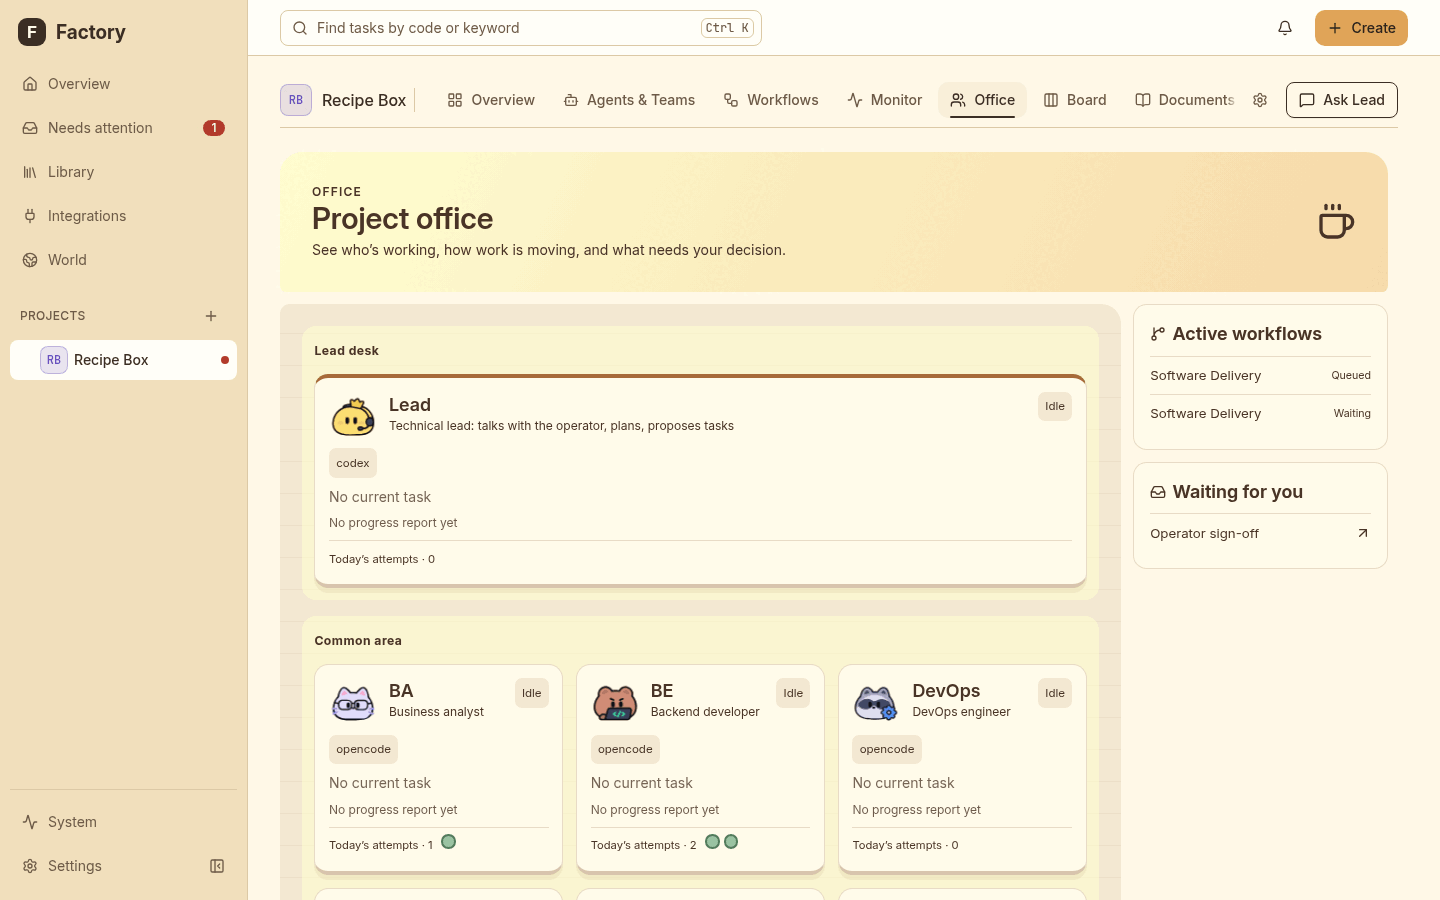
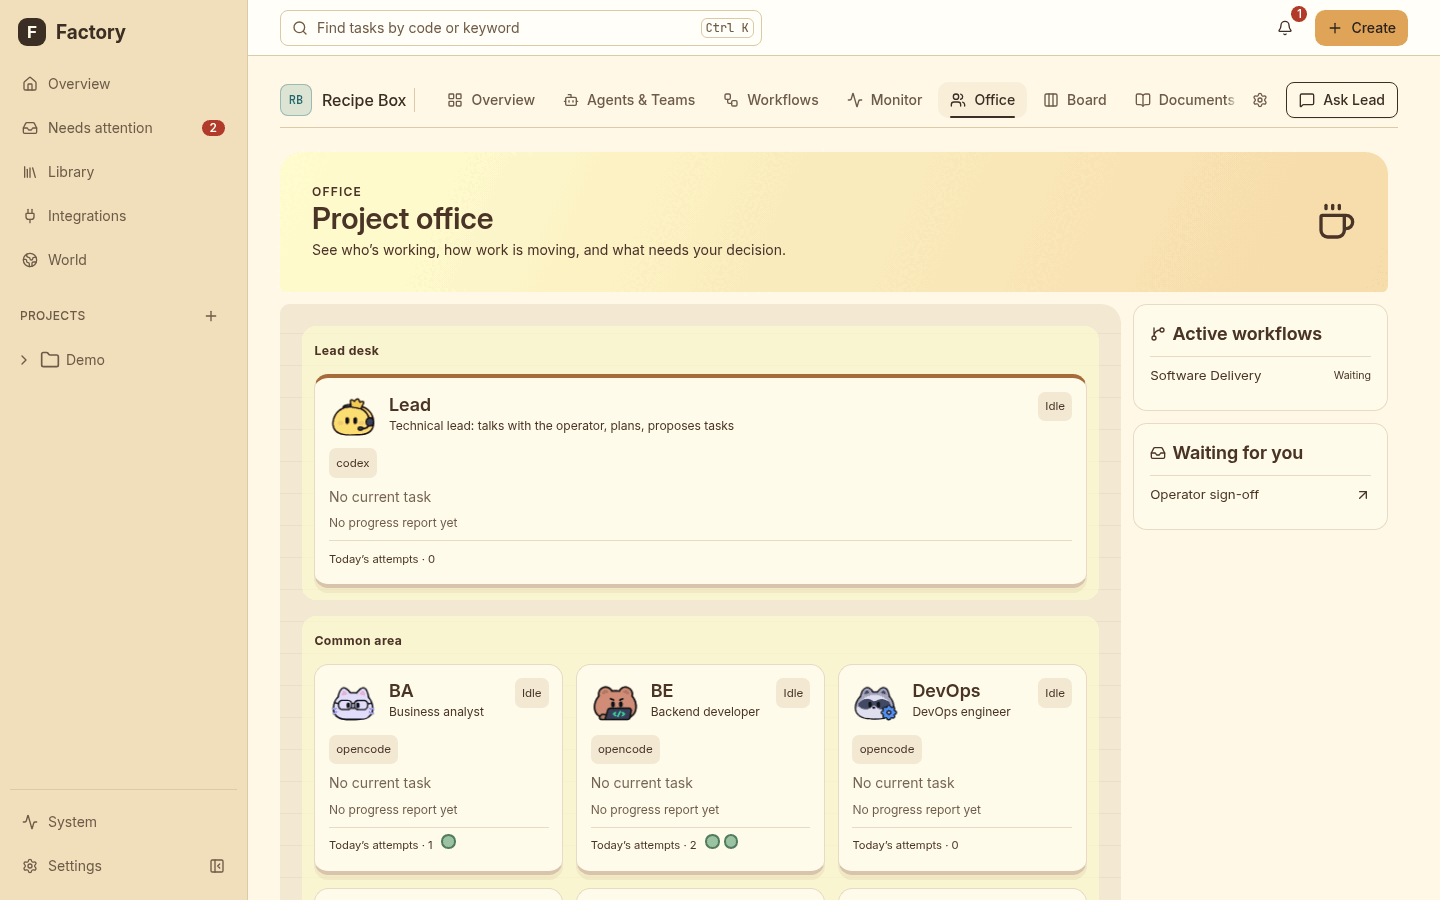
feat(site): English by default, no game-team section on the landing, real screenshots (agents, monitor, office, trace)

diff --git a/apps/factory-site/src/landing.tsx b/apps/factory-site/src/landing.tsx
@@ -86,26 +86,19 @@ export function Landing({ lang }: { lang: Lang }) {
           {index < steps.length - 1 && <><ChevronRight className="step-arrow" size={15} aria-hidden="true" /><ArrowDown className="step-down" size={15} aria-hidden="true" /></>}
         </li>)}</ol>
         <div className="screens-grid">{[
-          ['office', 'Văn phòng', 'Office'], ['agents', 'Agent & Team', 'Agents & Teams'], ['lead-chat', 'Lead chat', 'Lead chat'], ['trace', 'Trace', 'Trace'],
+          ['office', 'Văn phòng', 'Office'], ['agents', 'Agent & Team', 'Agents & Teams'], ['monitor', 'Monitor', 'Monitor'], ['trace', 'Trace', 'Trace'],
         ].map(([name, vi, en]) => <Screenshot key={`${name}-${lang}`} name={name} caption={text(lang, vi, en)} lang={lang} />)}</div>
       </div>
     </section>
 
-    <section className="section wrap" id="game-team">
-      <p className="eyebrow">03 / {text(lang, 'Đội làm game', 'Game team')}</p>
-      <h2>{text(lang, 'Một xưởng game, tám vai trò', 'One game studio, eight roles')}</h2>
-      <p className="section-intro">{text(lang, 'Web Games là một pack tùy chọn để làm game trình duyệt theo lượt. Đội làm việc từ starter; Portal nhận bản build sau khi bạn duyệt.', 'Web Games is an opt-in pack for turn-based browser games. The team builds on a starter; Portal receives the build after your approval.')}</p>
-      <div className="roster">{roles.map(([role, name, vi, en]) => <article key={role}><Mochi role={role} /><h3>{name}</h3><p>{text(lang, vi, en)}</p></article>)}</div>
-      <div className="game-flow"><div><span className="eyebrow">Workflow</span><h3><code>game-new</code></h3></div><ol>{gameSteps.map(([vi, en]) => <li key={en}>{text(lang, vi, en)}</li>)}</ol><a className="text-link" href="#/docs/web-games">{text(lang, 'Xem hướng dẫn Portal', 'Read the Portal guide')}<ArrowRight size={16} aria-hidden="true" /></a></div>
-    </section>
 
     <section className="why-section"><div className="section wrap why-grid">
-      <div><p className="eyebrow">04 / {text(lang, 'Vì sao Factory', 'Why Factory')}</p><h2>{text(lang, 'Không chỉ dừng ở chat', 'Beyond the chat window')}</h2><Mochi role="BA" className="why-mochi" /></div>
+      <div><p className="eyebrow">03 / {text(lang, 'Vì sao Factory', 'Why Factory')}</p><h2>{text(lang, 'Không chỉ dừng ở chat', 'Beyond the chat window')}</h2><Mochi role="BA" className="why-mochi" /></div>
       <dl>{comparisons.map(([vi, en, bodyVi, bodyEn]) => <div key={en}><dt><Check size={19} aria-hidden="true" />{text(lang, vi, en)}</dt><dd>{text(lang, bodyVi, bodyEn)}</dd></div>)}</dl>
     </div></section>
 
     <section className="section wrap install-grid"><div>
-      <p className="eyebrow">05 / {text(lang, 'Bắt đầu', 'Get started')}</p><h2>{text(lang, 'Mở xưởng trên máy bạn', 'Open your own Factory')}</h2>
+      <p className="eyebrow">04 / {text(lang, 'Bắt đầu', 'Get started')}</p><h2>{text(lang, 'Mở xưởng trên máy bạn', 'Open your own Factory')}</h2>
       <p className="section-intro">{text(lang, 'Dành cho Linux x64. Sau khi chạy, mở Factory ở http://127.0.0.1:8787/.', 'For Linux x64. Once running, open Factory at http://127.0.0.1:8787/.')}</p>
       <a className="text-link" href="#/docs/install">{text(lang, 'Xem hướng dẫn cài đặt', 'Read the installation guide')}<ArrowRight size={16} aria-hidden="true" /></a>
     </div><CodeBlock value={install} lang={lang} /></section>

diff --git a/apps/factory-site/src/main.tsx b/apps/factory-site/src/main.tsx
@@ -7,8 +7,8 @@ import { External, Mochi, repo, text, type Lang } from './shared';
 import './styles.css';
 
 function initialLang(): Lang {
-  try { return localStorage.getItem('factory-site-lang') === 'en' ? 'en' : 'vi'; }
-  catch { return 'vi'; }
+  try { return localStorage.getItem('factory-site-lang') === 'vi' ? 'vi' : 'en'; }
+  catch { return 'en'; }
 }
 
 function App() {
@@ -55,7 +55,6 @@ function App() {
         <nav id="site-nav" className={menu ? 'site-nav open' : 'site-nav'} aria-label={text(lang, 'Điều hướng chính', 'Main navigation')} onClick={(event) => { if ((event.target as HTMLElement).closest('a')) setMenu(false); }}>
           <a href="#/#features">{text(lang, 'Tính năng', 'Features')}</a>
           <a href="#/#how">{text(lang, 'Cách hoạt động', 'How it works')}</a>
-          <a href="#/#game-team">{text(lang, 'Đội làm game', 'Game team')}</a>
           <a href="#/docs/introduction" aria-current={isDocs ? 'page' : undefined}>Docs</a>
           <External href={repo}>GitHub</External>
           <a className="nav-try" href="#/try" aria-current={isTry ? 'page' : undefined}>{text(lang, 'Dùng thử', 'Try it')}</a>

diff --git a/apps/factory-site/index.html b/apps/factory-site/index.html
@@ -1,12 +1,12 @@
 <!doctype html>
-<html lang="vi">
+<html lang="en">
   <head>
     <meta charset="UTF-8" />
     <meta name="viewport" content="width=device-width, initial-scale=1" />
     <meta name="theme-color" content="#FFF8E7" />
-    <meta name="description" content="Factory — đội AI trên máy của bạn. Bàn với Lead, chốt phương án và theo dõi từng bước của workflow." />
+    <meta name="description" content="Factory — your own AI team, on your own machine. Talk with the Lead, agree on a plan, and follow every workflow step." />
     <link rel="icon" type="image/svg+xml" href="/mascot/LEAD.svg" />
-    <title>Factory — Đội AI trên máy của bạn</title>
+    <title>Factory — Your own AI team</title>
   </head>
   <body>
     <div id="root"></div>
